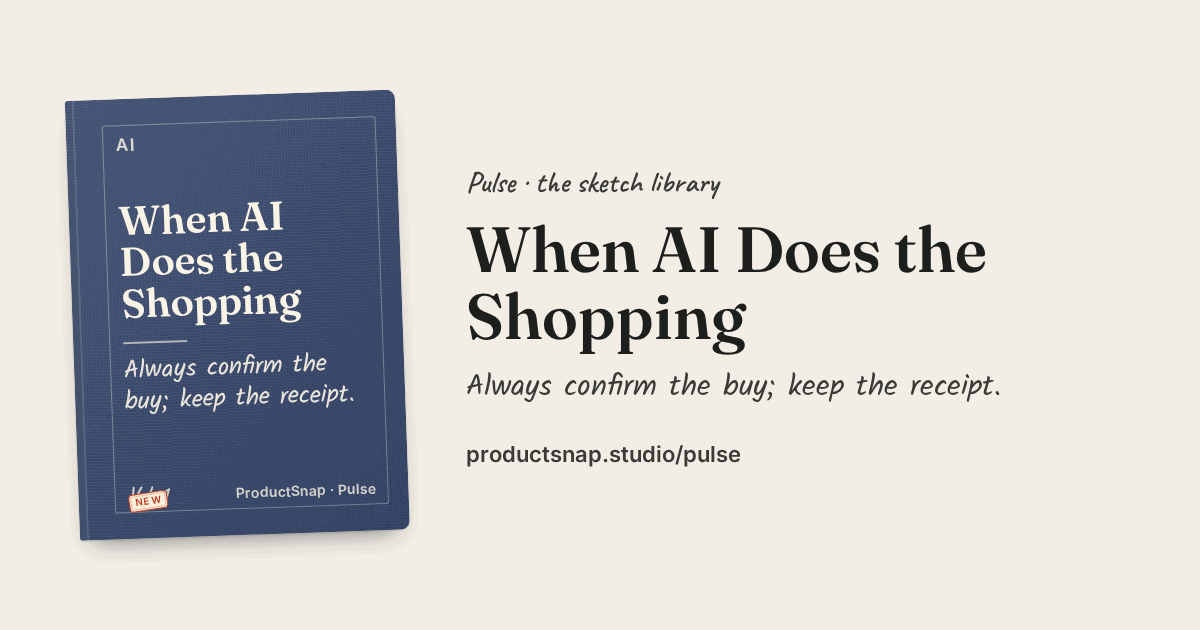
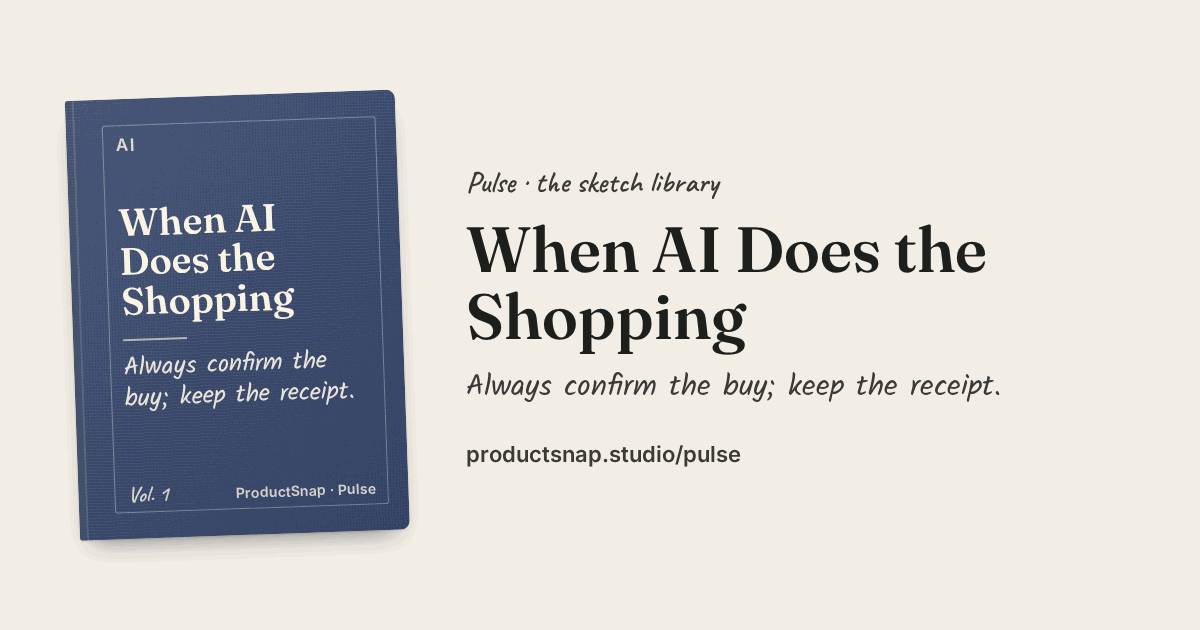
Pulse topic colours: Fintech plum (#7535b6 / dark #b779d8), Macro richer green (#3b7436 / dark #8fd08a); cloths, .nbr and fintech reader stock tint to match; unused Tech colour rules removed (unknown topics fall back to Fintech); og images regenerated (no hyphen splits, no stale New stamp)

Changed region(s): [[0.0925, 0.3016, 0.3083, 0.6635], [0.0925, 0.7841, 0.1542, 0.8143]]

diff --git a/css/pulse.css b/css/pulse.css
@@ -1,7 +1,7 @@
 /* Pulse — the sketch library. Uses site tokens from css/style.css. */
-:root { --t-ai:#2c3e66; --t-tech:#b7792b; --t-macro:#5f7a5a; --t-fintech:#2f6b6a; --new:#e0679a; --shelf-wood:rgba(29,31,29,.08); }
-[data-theme="dark"] { --t-ai:#8fa6d6; --t-tech:#e0ad66; --t-macro:#9cbb93; --t-fintech:#7fc0bb; --new:#f08bb5; --shelf-wood:rgba(243,234,217,.08); }
-.t-ai{--tc:var(--t-ai)} .t-tech{--tc:var(--t-tech)} .t-macro{--tc:var(--t-macro)} .t-fintech{--tc:var(--t-fintech)}
+:root { --t-ai:#2c3e66; --t-macro:#3b7436; --t-fintech:#7535b6; --new:#e0679a; --shelf-wood:rgba(29,31,29,.08); }
+[data-theme="dark"] { --t-ai:#8fa6d6; --t-macro:#8fd08a; --t-fintech:#b779d8; --new:#f08bb5; --shelf-wood:rgba(243,234,217,.08); }
+.t-ai{--tc:var(--t-ai)} .t-macro{--tc:var(--t-macro)} .t-fintech{--tc:var(--t-fintech)}
 .sr-only{position:absolute;width:1px;height:1px;overflow:hidden;clip:rect(0 0 0 0);white-space:nowrap}
 
 .lib{max-width:1180px;margin:0 auto;padding:clamp(28px,6vw,72px) clamp(16px,4vw,40px) 80px}
@@ -25,7 +25,6 @@
 .chip:hover{border-color:var(--ink)}
 .chip[aria-pressed="true"]{background:var(--ink);color:var(--paper);border-color:var(--ink)}
 .chip.c-ai[aria-pressed="true"]{background:var(--t-ai);border-color:var(--t-ai)}
-.chip.c-tech[aria-pressed="true"]{background:var(--t-tech);border-color:var(--t-tech)}
 .chip.c-macro[aria-pressed="true"]{background:var(--t-macro);border-color:var(--t-macro)}
 .chip.c-fintech[aria-pressed="true"]{background:var(--t-fintech);border-color:var(--t-fintech)}
 .chip:disabled{opacity:.4;cursor:default}
@@ -46,13 +45,11 @@
     linear-gradient(135deg,rgba(255,255,255,.10),rgba(0,0,0,.12));
   color:#fbf5e8}
 .t-ai .cv,.cv.t-ai,.sp.t-ai{--cloth:#2c3e66}
-.cv.t-tech,.sp.t-tech{--cloth:#a86c22}
-.cv.t-macro,.sp.t-macro{--cloth:#566f51}
-.cv.t-fintech,.sp.t-fintech{--cloth:#2f6766}
+.cv.t-macro,.sp.t-macro{--cloth:#3a6e35}
+.cv.t-fintech,.sp.t-fintech{--cloth:#683296}
 [data-theme="dark"] .cv.t-ai,[data-theme="dark"] .sp.t-ai{--cloth:#33497a}
-[data-theme="dark"] .cv.t-tech,[data-theme="dark"] .sp.t-tech{--cloth:#a8702a}
-[data-theme="dark"] .cv.t-macro,[data-theme="dark"] .sp.t-macro{--cloth:#5d7a57}
-[data-theme="dark"] .cv.t-fintech,[data-theme="dark"] .sp.t-fintech{--cloth:#336f6c}
+[data-theme="dark"] .cv.t-macro,[data-theme="dark"] .sp.t-macro{--cloth:#3d7637}
+[data-theme="dark"] .cv.t-fintech,[data-theme="dark"] .sp.t-fintech{--cloth:#7c45ae}
 
 /* ---- Shelf view: spines lined up on planks ---- */
 .shelf-row.spines{--row:300px;--plank-h:14px;display:grid;grid-template-columns:repeat(auto-fill,var(--sw,56px));grid-auto-rows:var(--row);align-items:end;column-gap:6px;padding:0 14px;
@@ -87,7 +84,7 @@
 body.reading{overflow:hidden}
 .reader{position:fixed;inset:0;z-index:200;background:var(--paper);display:grid;grid-template-rows:auto 1fr auto;grid-template-columns:minmax(0,1fr);--tc:var(--t-ai)}
 .reader[hidden]{display:none}
-.reader.t-tech{--tc:var(--t-tech)} .reader.t-macro{--tc:var(--t-macro)} .reader.t-fintech{--tc:var(--t-fintech)} .t-fintech{--tc:var(--t-fintech)}
+.reader.t-macro{--tc:var(--t-macro)} .reader.t-fintech{--tc:var(--t-fintech)} .t-fintech{--tc:var(--t-fintech)}
 .rd-top{display:flex;align-items:center;gap:12px;padding:10px clamp(10px,3vw,24px);border-bottom:1px solid var(--shelf-wood)}
 .rd-head{flex:1;min-width:0;text-align:center}
 .rd-head h2{font:600 1.1rem var(--serif);margin:0;white-space:nowrap;overflow:hidden;text-overflow:ellipsis;color:var(--ink)}
@@ -232,7 +229,7 @@ body.reading{overflow:hidden}
 .saved-empty b{color:var(--ink)}
 .saved-list{list-style:none;margin:8px 0 0;padding:0;display:grid;gap:10px}
 .sv-item{display:flex;align-items:center;gap:8px;background:var(--card);border-radius:10px;padding:6px;border-left:4px solid var(--tc,var(--t-ai))}
-.sv-item.t-ai{--tc:var(--t-ai)}.sv-item.t-tech{--tc:var(--t-tech)}.sv-item.t-macro{--tc:var(--t-macro)}.sv-item.t-fintech{--tc:var(--t-fintech)} .t-fintech{--tc:var(--t-fintech)}
+.sv-item.t-ai{--tc:var(--t-ai)}.sv-item.t-macro{--tc:var(--t-macro)}.sv-item.t-fintech{--tc:var(--t-fintech)} .t-fintech{--tc:var(--t-fintech)}
 .sv-link{flex:1;display:flex;align-items:center;gap:12px;min-height:56px;text-decoration:none;color:var(--ink);min-width:0}
 .sv-thumb{width:56px;height:auto;max-height:76px;object-fit:cover;object-position:top;border-radius:4px;background:#fffdf6;flex-shrink:0}
 .sv-gist{display:grid;place-items:center;height:56px;font:600 .8rem var(--body);color:#fff;background:var(--tc)}
@@ -242,7 +239,7 @@ body.reading{overflow:hidden}
 .sv-rm{min-height:44px;min-width:44px;padding:0 10px;border:0;background:none;color:var(--ink-soft);font:600 .82rem var(--body);text-decoration:underline;cursor:pointer}
 /* Search: best page */
 .best{display:flex;align-items:center;gap:14px;margin:4px 0 22px;padding:12px 14px;border-radius:12px;background:var(--card);text-decoration:none;color:var(--ink);border-left:5px solid var(--tc);box-shadow:0 2px 10px rgba(0,0,0,.06)}
-.best.t-ai{--tc:var(--t-ai)}.best.t-tech{--tc:var(--t-tech)}.best.t-macro{--tc:var(--t-macro)}.best.t-fintech{--tc:var(--t-fintech)} .t-fintech{--tc:var(--t-fintech)}
+.best.t-ai{--tc:var(--t-ai)}.best.t-macro{--tc:var(--t-macro)}.best.t-fintech{--tc:var(--t-fintech)} .t-fintech{--tc:var(--t-fintech)}
 .best-thumb{width:64px;height:auto;max-height:84px;object-fit:cover;object-position:top;border-radius:4px;flex-shrink:0}
 .best-text{display:grid;gap:3px;flex:1;min-width:0}
 .best-k{font:700 .72rem var(--body);letter-spacing:.08em;text-transform:uppercase;color:color-mix(in srgb,var(--tc) 70%,#000)}
@@ -340,7 +337,7 @@ body.page-pulse{--paper:#f3efe7;--paper-2:#ece6da;--card:#fbf9f4;background:#f3e
 .lib-bar{margin:18px 0 8px;justify-content:flex-start}
 .topictabs .chip{gap:7px;background:var(--card);border:1px solid color-mix(in srgb,var(--ink) 15%,transparent);color:var(--ink);padding:6px 14px 6px 12px}
 .topictabs .chip .ci{color:var(--tc,var(--ink-soft))}
-.chip.c-ai{--tc:var(--t-ai)}.chip.c-tech{--tc:var(--t-tech)}.chip.c-macro{--tc:var(--t-macro)}.chip.c-fintech{--tc:var(--t-fintech)}
+.chip.c-ai{--tc:var(--t-ai)}.chip.c-macro{--tc:var(--t-macro)}.chip.c-fintech{--tc:var(--t-fintech)}
 .topictabs .chip .cn{color:var(--ink-faded);font-weight:500}
 .topictabs .chip[aria-pressed="true"]{color:#fff}
 .topictabs .chip[data-topic="All"][aria-pressed="true"]{background:var(--ink);color:var(--paper)}
@@ -516,13 +513,11 @@ a.sp:focus-visible{outline:none}
 /* ---- paper stock per topic (subtle; text contrast checked in QA) ---- */
 .reader{--stock:none;background:var(--stock),var(--paper)}
 .reader.t-ai{--stock:repeating-linear-gradient(90deg,rgba(110,84,40,.05) 0 1px,transparent 1px 6px),repeating-linear-gradient(0deg,rgba(110,84,40,.07) 0 1px,transparent 1px 72px)}
-.reader.t-fintech{--stock:linear-gradient(90deg,transparent 46px,rgba(196,72,60,.16) 46px 47px,transparent 47px 50px,rgba(196,72,60,.12) 50px 51px,transparent 51px),repeating-linear-gradient(0deg,transparent 0 25px,rgba(47,107,106,.11) 25px 26px)}
+.reader.t-fintech{--stock:linear-gradient(90deg,transparent 46px,rgba(117,53,182,.16) 46px 47px,transparent 47px 50px,rgba(117,53,182,.12) 50px 51px,transparent 51px),repeating-linear-gradient(0deg,transparent 0 25px,rgba(117,53,182,.11) 25px 26px)}
 .reader.t-macro{--stock:linear-gradient(rgba(44,98,150,.12) 1px,transparent 1px) 0 0/120px 120px,linear-gradient(90deg,rgba(44,98,150,.12) 1px,transparent 1px) 0 0/120px 120px,linear-gradient(rgba(44,98,150,.07) 1px,transparent 1px) 0 0/24px 24px,linear-gradient(90deg,rgba(44,98,150,.07) 1px,transparent 1px) 0 0/24px 24px}
-.reader.t-tech{--stock:radial-gradient(rgba(150,100,30,.12) 1px,transparent 1.4px) 0 0/16px 16px}
 [data-theme="dark"] .reader.t-ai{--stock:repeating-linear-gradient(90deg,rgba(240,222,180,.035) 0 1px,transparent 1px 6px),repeating-linear-gradient(0deg,rgba(240,222,180,.05) 0 1px,transparent 1px 72px)}
-[data-theme="dark"] .reader.t-fintech{--stock:linear-gradient(90deg,transparent 46px,rgba(235,120,105,.2) 46px 47px,transparent 47px 50px,rgba(235,120,105,.12) 50px 51px,transparent 51px),repeating-linear-gradient(0deg,transparent 0 25px,rgba(127,192,187,.11) 25px 26px)}
+[data-theme="dark"] .reader.t-fintech{--stock:linear-gradient(90deg,transparent 46px,rgba(183,121,216,.2) 46px 47px,transparent 47px 50px,rgba(183,121,216,.12) 50px 51px,transparent 51px),repeating-linear-gradient(0deg,transparent 0 25px,rgba(183,121,216,.11) 25px 26px)}
 [data-theme="dark"] .reader.t-macro{--stock:linear-gradient(rgba(140,180,230,.1) 1px,transparent 1px) 0 0/120px 120px,linear-gradient(90deg,rgba(140,180,230,.1) 1px,transparent 1px) 0 0/120px 120px,linear-gradient(rgba(140,180,230,.055) 1px,transparent 1px) 0 0/24px 24px,linear-gradient(90deg,rgba(140,180,230,.055) 1px,transparent 1px) 0 0/24px 24px}
-[data-theme="dark"] .reader.t-tech{--stock:radial-gradient(rgba(240,200,130,.1) 1px,transparent 1.4px) 0 0/16px 16px}
 .pg-gist,.pg-end{background:var(--stock),var(--card)}
 .rd-top{background:color-mix(in srgb,var(--paper) 90%,transparent)}
 
@@ -597,7 +592,7 @@ a.sp:focus-visible{outline:none}
 .nbr-tx{display:grid;gap:1px;min-width:0}
 .nbr-t{font:600 .95rem/1.25 var(--serif)}
 .nbr-why{font:.78rem/1.3 var(--body);color:var(--ink-soft)}
-.t-ai.nbr{--cloth:#2c3e66}.t-tech.nbr{--cloth:#a86c22}.t-macro.nbr{--cloth:#566f51}.t-fintech.nbr{--cloth:#2f6766}
+.t-ai.nbr{--cloth:#2c3e66}.t-macro.nbr{--cloth:#3a6e35}.t-fintech.nbr{--cloth:#683296}
 
 /* ---- Saved + misc polish ---- */
 .saved-panel{background:var(--paper);background-image:radial-gradient(color-mix(in srgb,var(--ink) 9%,transparent) 1px,transparent 1.3px);background-size:18px 18px}

diff --git a/js/pulse.js b/js/pulse.js
@@ -4,7 +4,7 @@
    Deep links: #book/<id>/<page>  (1-based, counting the gist page). #topics opens Topics. */
 (function () {
   "use strict";
-  var TOPICS = { AI: "AI", Tech: "Tech", Fintech: "Fintech", Macro: "Macro" };
+  var TOPICS = { AI: "AI", Fintech: "Fintech", Macro: "Macro" };
   var LS = { seen: "pulse_seen", opens: "pulse_opens", bm: "pulse_bm_", prog: "pulse_prog_", sound: "pulse_sound", saved: "pulse_saved", last: "pulse_last", lastX: "pulse_last_x" };
   var START = [["ai-basics", "AI Basics"], ["ai-agents", "AI Agents"], ["stablecoins", "Stablecoins"], ["mortgage-rates", "Mortgages"]];
   var ICONS = {
@@ -385,7 +385,6 @@
     topics: '<rect x="4" y="4" width="6.5" height="6.5" rx="1.5"/><rect x="13.5" y="4" width="6.5" height="6.5" rx="1.5"/><rect x="4" y="13.5" width="6.5" height="6.5" rx="1.5"/><rect x="13.5" y="13.5" width="6.5" height="6.5" rx="1.5"/>',
     All: '<path d="M4 6h16M4 12h16M4 18h10"/>',
     AI: '<rect x="6" y="6" width="12" height="12" rx="2"/><path d="M9.5 9.5h5v5h-5zM9 3v3M15 3v3M9 18v3M15 18v3M3 9h3M3 15h3M18 9h3M18 15h3"/>',
-    Tech: '<rect x="3.5" y="5" width="17" height="11" rx="1.5"/><path d="M2 19.5h20M10 8.5l-2 2 2 2M14 8.5l2 2-2 2"/>',
     Fintech: '<rect x="3" y="6" width="18" height="12" rx="2"/><path d="M3 10h18M7 14.5h4"/>',
     Macro: '<path d="M3 20h18"/><path d="M4 16l5-5 4 3 7-8"/><path d="M15 6h5v5"/>'
   };
@@ -623,7 +622,7 @@
     index(b).raw.split(/[\s-]+/).forEach(function (w) { if (w.length > 3 && STOP.indexOf(w) < 0) o[w] = 1; });
     return (b._rw = o);
   }
-  var NEXT_DOOR = { AI: ["Fintech"], Fintech: ["Macro", "AI"], Macro: ["Fintech"], Tech: ["AI"] };
+  var NEXT_DOOR = { AI: ["Fintech"], Fintech: ["Macro", "AI"], Macro: ["Fintech"] };
   function related(b, skip) {
     if (!lib._df) { lib._df = {}; lib.books.forEach(function (x) { Object.keys(rawWords(x)).forEach(function (w) { lib._df[w] = (lib._df[w] || 0) + 1; }); }); }
     var mine = rawWords(b), N = lib.books.length;
@@ -1086,7 +1085,7 @@
   fetch("data/library.json", { cache: "no-cache" })
     .then(function (r) { if (!r.ok) throw new Error("HTTP " + r.status); return r.json(); })
     .then(function (d) {
-      lib = d; lib.books.forEach(function (b) { if (!TOPICS[b.topic]) b.topic = "Tech"; });
+      lib = d; lib.books.forEach(function (b) { if (!TOPICS[b.topic]) b.topic = "Fintech"; });
       wire(); wireTips(); wireKbdDismiss(); savedBadge(); renderTabs(); heroMeta(); renderShelves(); newBadge(); rotateHints();
       if (location.hash && location.hash !== "#topics") route();
     })

diff --git a/js/main.js b/js/main.js
@@ -291,7 +291,7 @@
         const counts = {};
         books.forEach((x) => { counts[x.topic] = (counts[x.topic] || 0) + 1; });
         const stats = document.getElementById("home-pulse-stats");
-        if (stats) stats.textContent = books.length + " books · " + ["AI", "Tech", "Fintech", "Macro"].filter((t) => counts[t]).map((t) => t + " " + counts[t]).join(" · ");
+        if (stats) stats.textContent = books.length + " books · " + ["AI", "Fintech", "Macro"].filter((t) => counts[t]).map((t) => t + " " + counts[t]).join(" · ");
       })
       .catch((err) => {
         console.error("Home Pulse: failed to load library", err);

diff --git a/scripts/build_share.py b/scripts/build_share.py
@@ -76,7 +76,7 @@ try:
                 '<div style="font:600 22px var(--body);color:var(--ink-soft);margin-top:34px">productsnap.studio/pulse</div>';
               st.append(w, t); document.body.append(st);
               if (!document.getElementById('og-css')) { const k = document.createElement('style'); k.id = 'og-css';
-                k.textContent = '#og-stage .cv-ico{display:none}#og-stage .cv{container-type:normal}#og-stage .cv-topic{font-size:17px}#og-stage .cv-title{font-size:40px}#og-stage .cv-tag{font-size:25px}#og-stage .cv-foot{font-size:14px}#og-stage .cv-vol{font-size:22px}#og-stage .cv-start{font-size:15px}';
+                k.textContent = '#og-stage .cv-ico{display:none}#og-stage .cv{container-type:normal}#og-stage .cv-topic{font-size:17px}#og-stage .cv-title{font-size:38px;hyphens:manual}#og-stage .cv-stamp{display:none}#og-stage .cv-tag{font-size:25px}#og-stage .cv-foot{font-size:14px}#og-stage .cv-vol{font-size:22px}#og-stage .cv-start{font-size:15px}';
                 document.head.append(k); }
             }""", b["id"])
             pg.wait_for_timeout(120)

diff --git a/scripts/add_book.py b/scripts/add_book.py
@@ -29,7 +29,7 @@ from PIL import Image
 ROOT = os.path.dirname(os.path.dirname(os.path.abspath(__file__)))
 LIB = os.path.join(ROOT, "data", "library.json")
 ASSETS = os.path.join(ROOT, "assets", "pulse")
-TOPICS = ("AI", "Tech", "Fintech", "Macro")
+TOPICS = ("AI", "Fintech", "Macro")
 MAX_W, THUMB_W = 1600, 480
 
 
